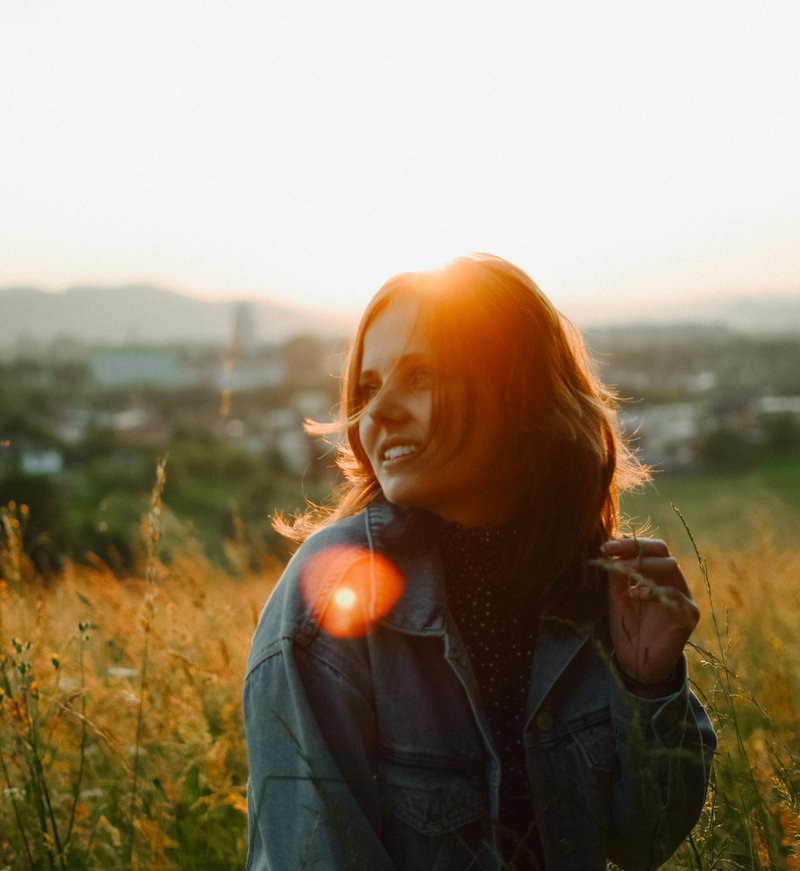
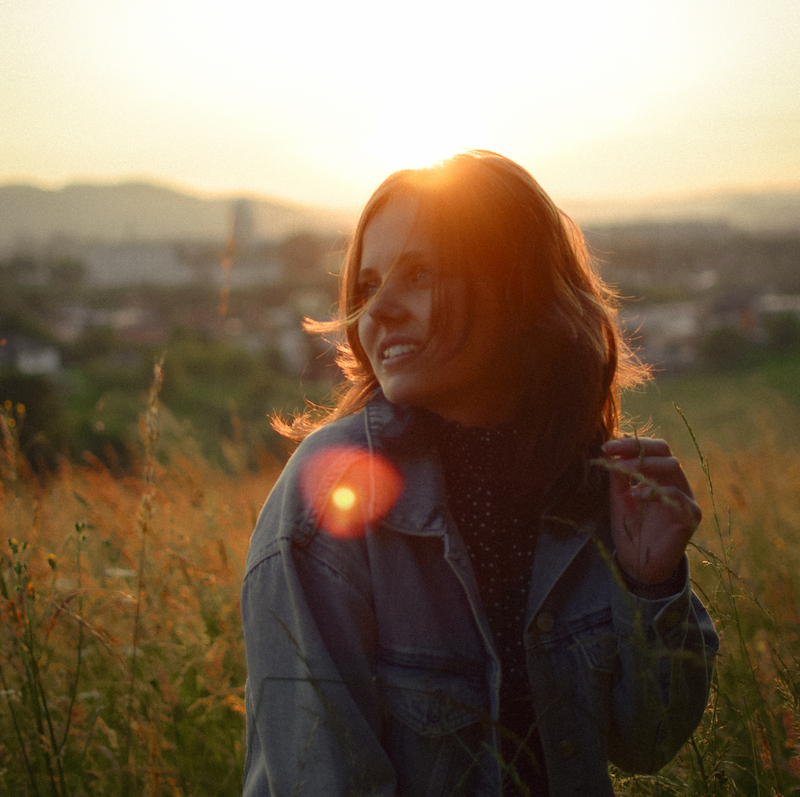
feat(title-images): update styles, looks good

diff --git a/client/src/pages/gallery-type/gallery-type.component.html b/client/src/pages/gallery-type/gallery-type.component.html
@@ -7,7 +7,9 @@
 </div>
 <div class="gallery-container">
   <div class="title-for-gallery">
-    <img [src]="'assets/gallery_' + type() + '.jpg'" alt="title of gallery" />
+    <img [src]="'assets/gallery_' + type() + '.jpg'" alt="title of gallery"
+      [class.adjusted-title]="type() === 'portrait' || type() === 'love-story'"
+      [class.pregnancy-title]="type() === 'pregnancy'" />
     @switch (type()) {
     @case ('baptism') {
     <h1 i18n>Krsty</h1>

diff --git a/client/src/pages/gallery-type/gallery-type.component.scss b/client/src/pages/gallery-type/gallery-type.component.scss
@@ -78,10 +78,18 @@ a:not(:last-of-type) {
   }
 }
 
+.adjusted-title {
+  object-position: 75%;
+}
+
+.pregnancy-title {
+  object-position: 25%;
+}
+
 .image-grid {
   column-count: 3;
   gap: 0.5rem;
-  padding: 0 0.5rem;
+  padding: 3rem 0.5rem 0;
 }
 
 .image-card {
